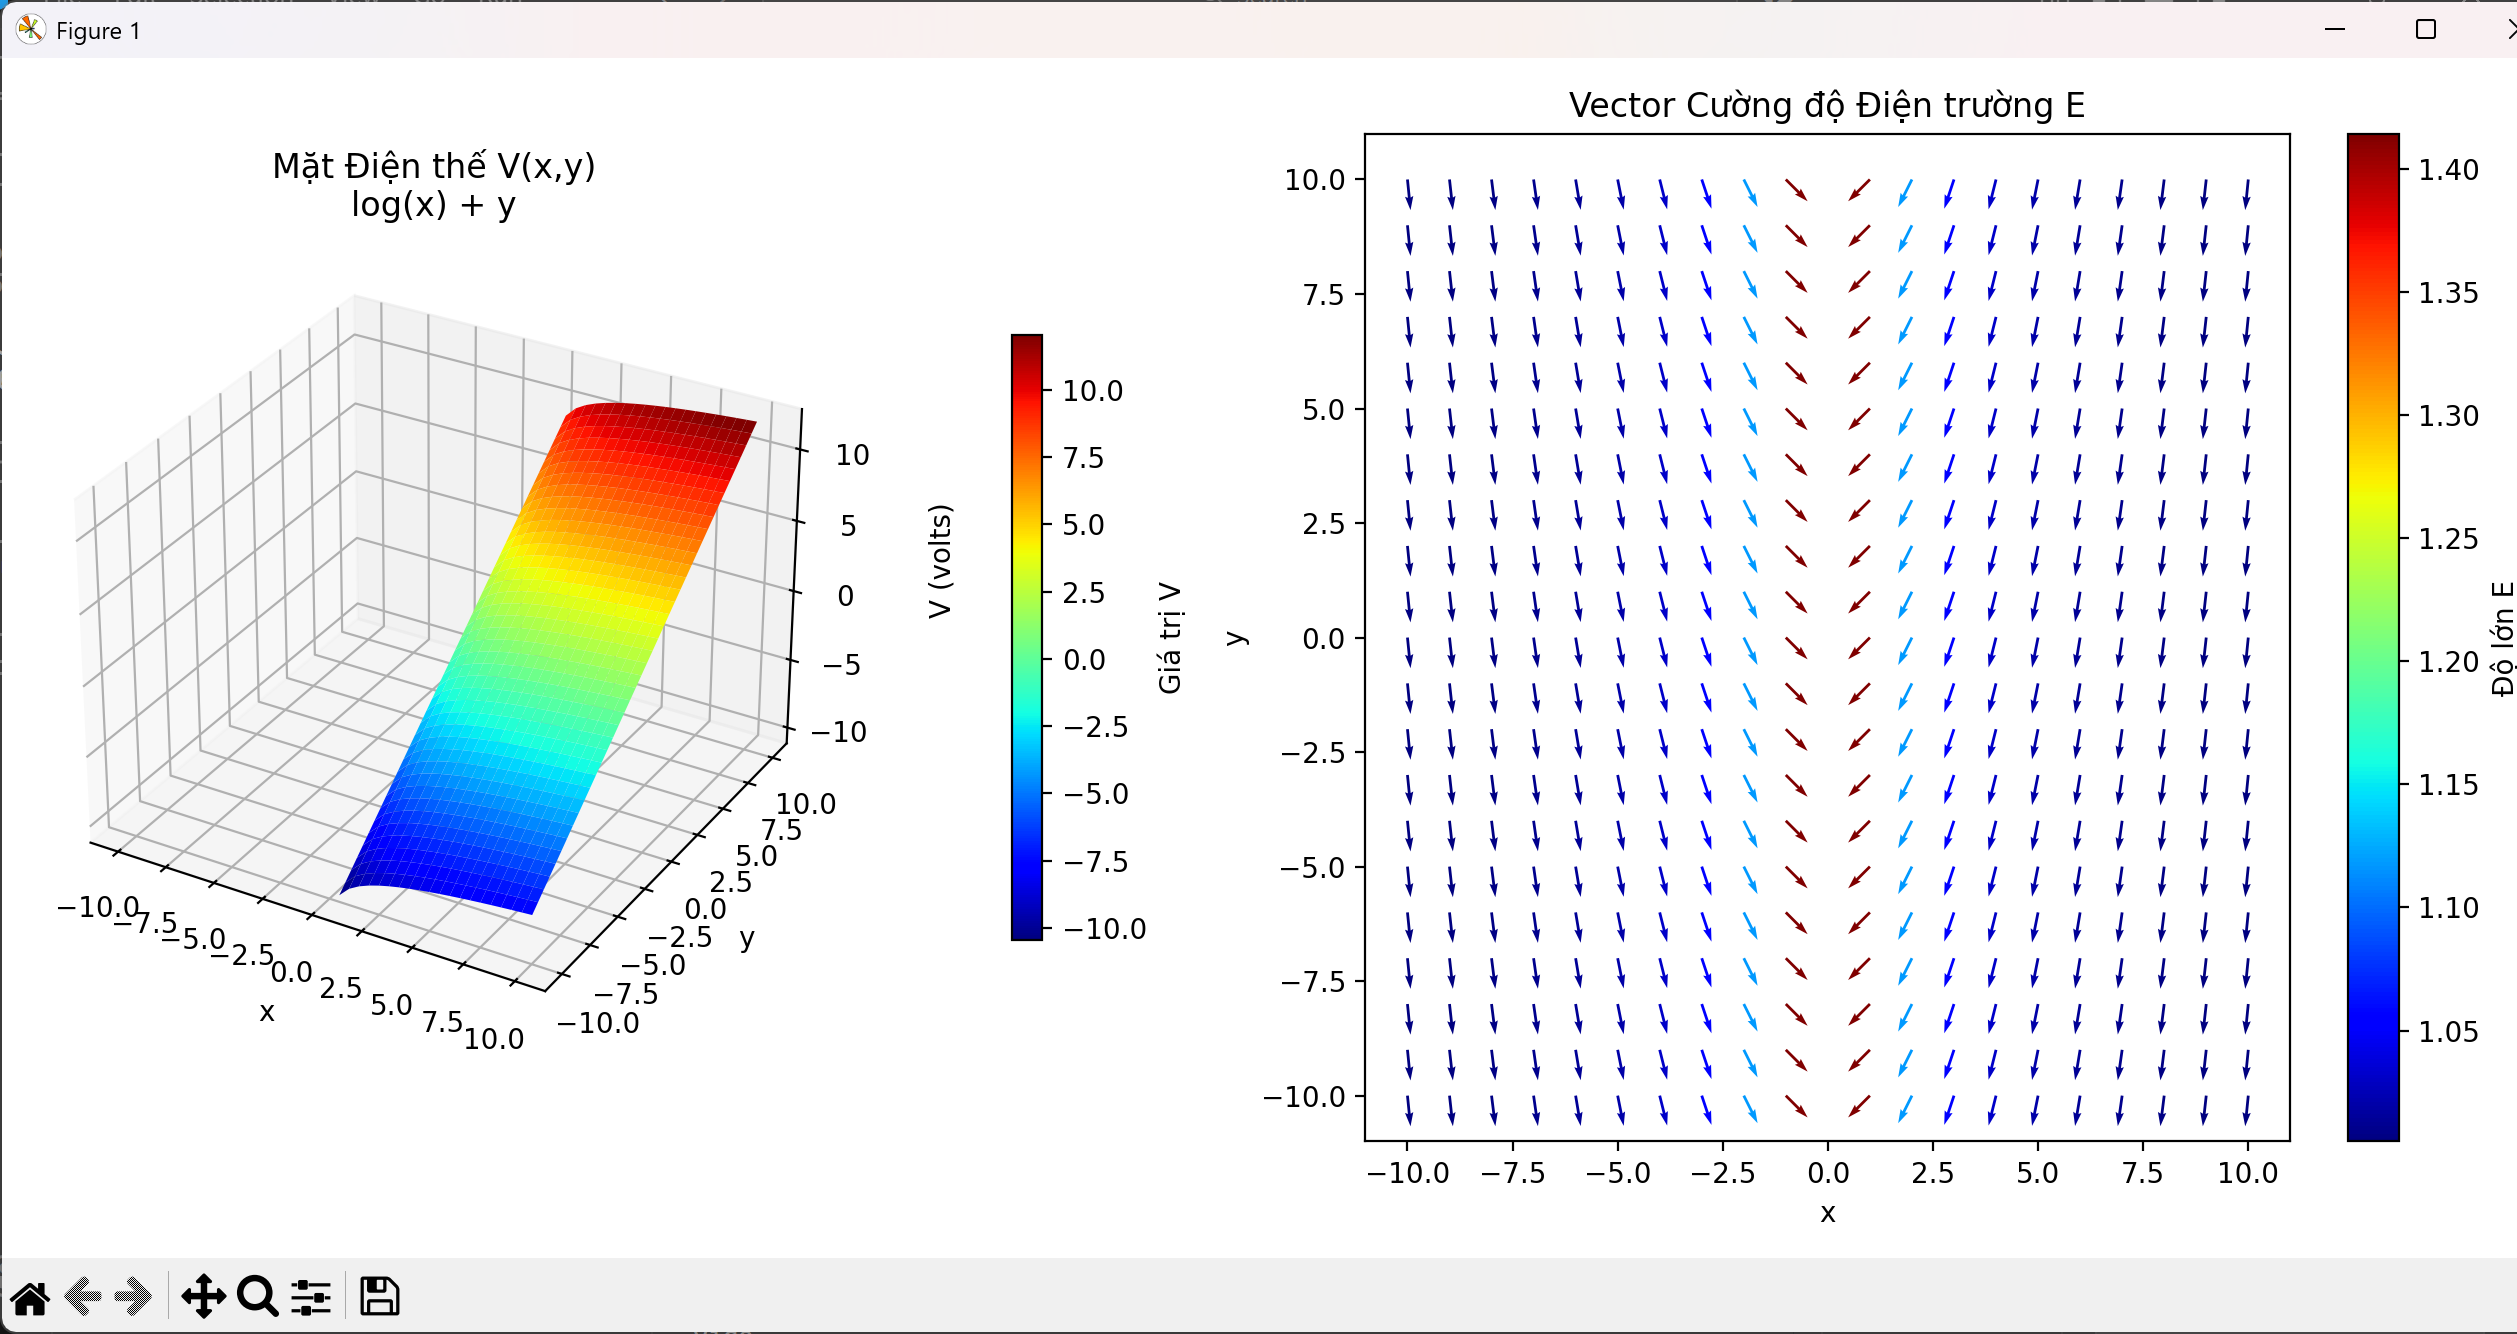
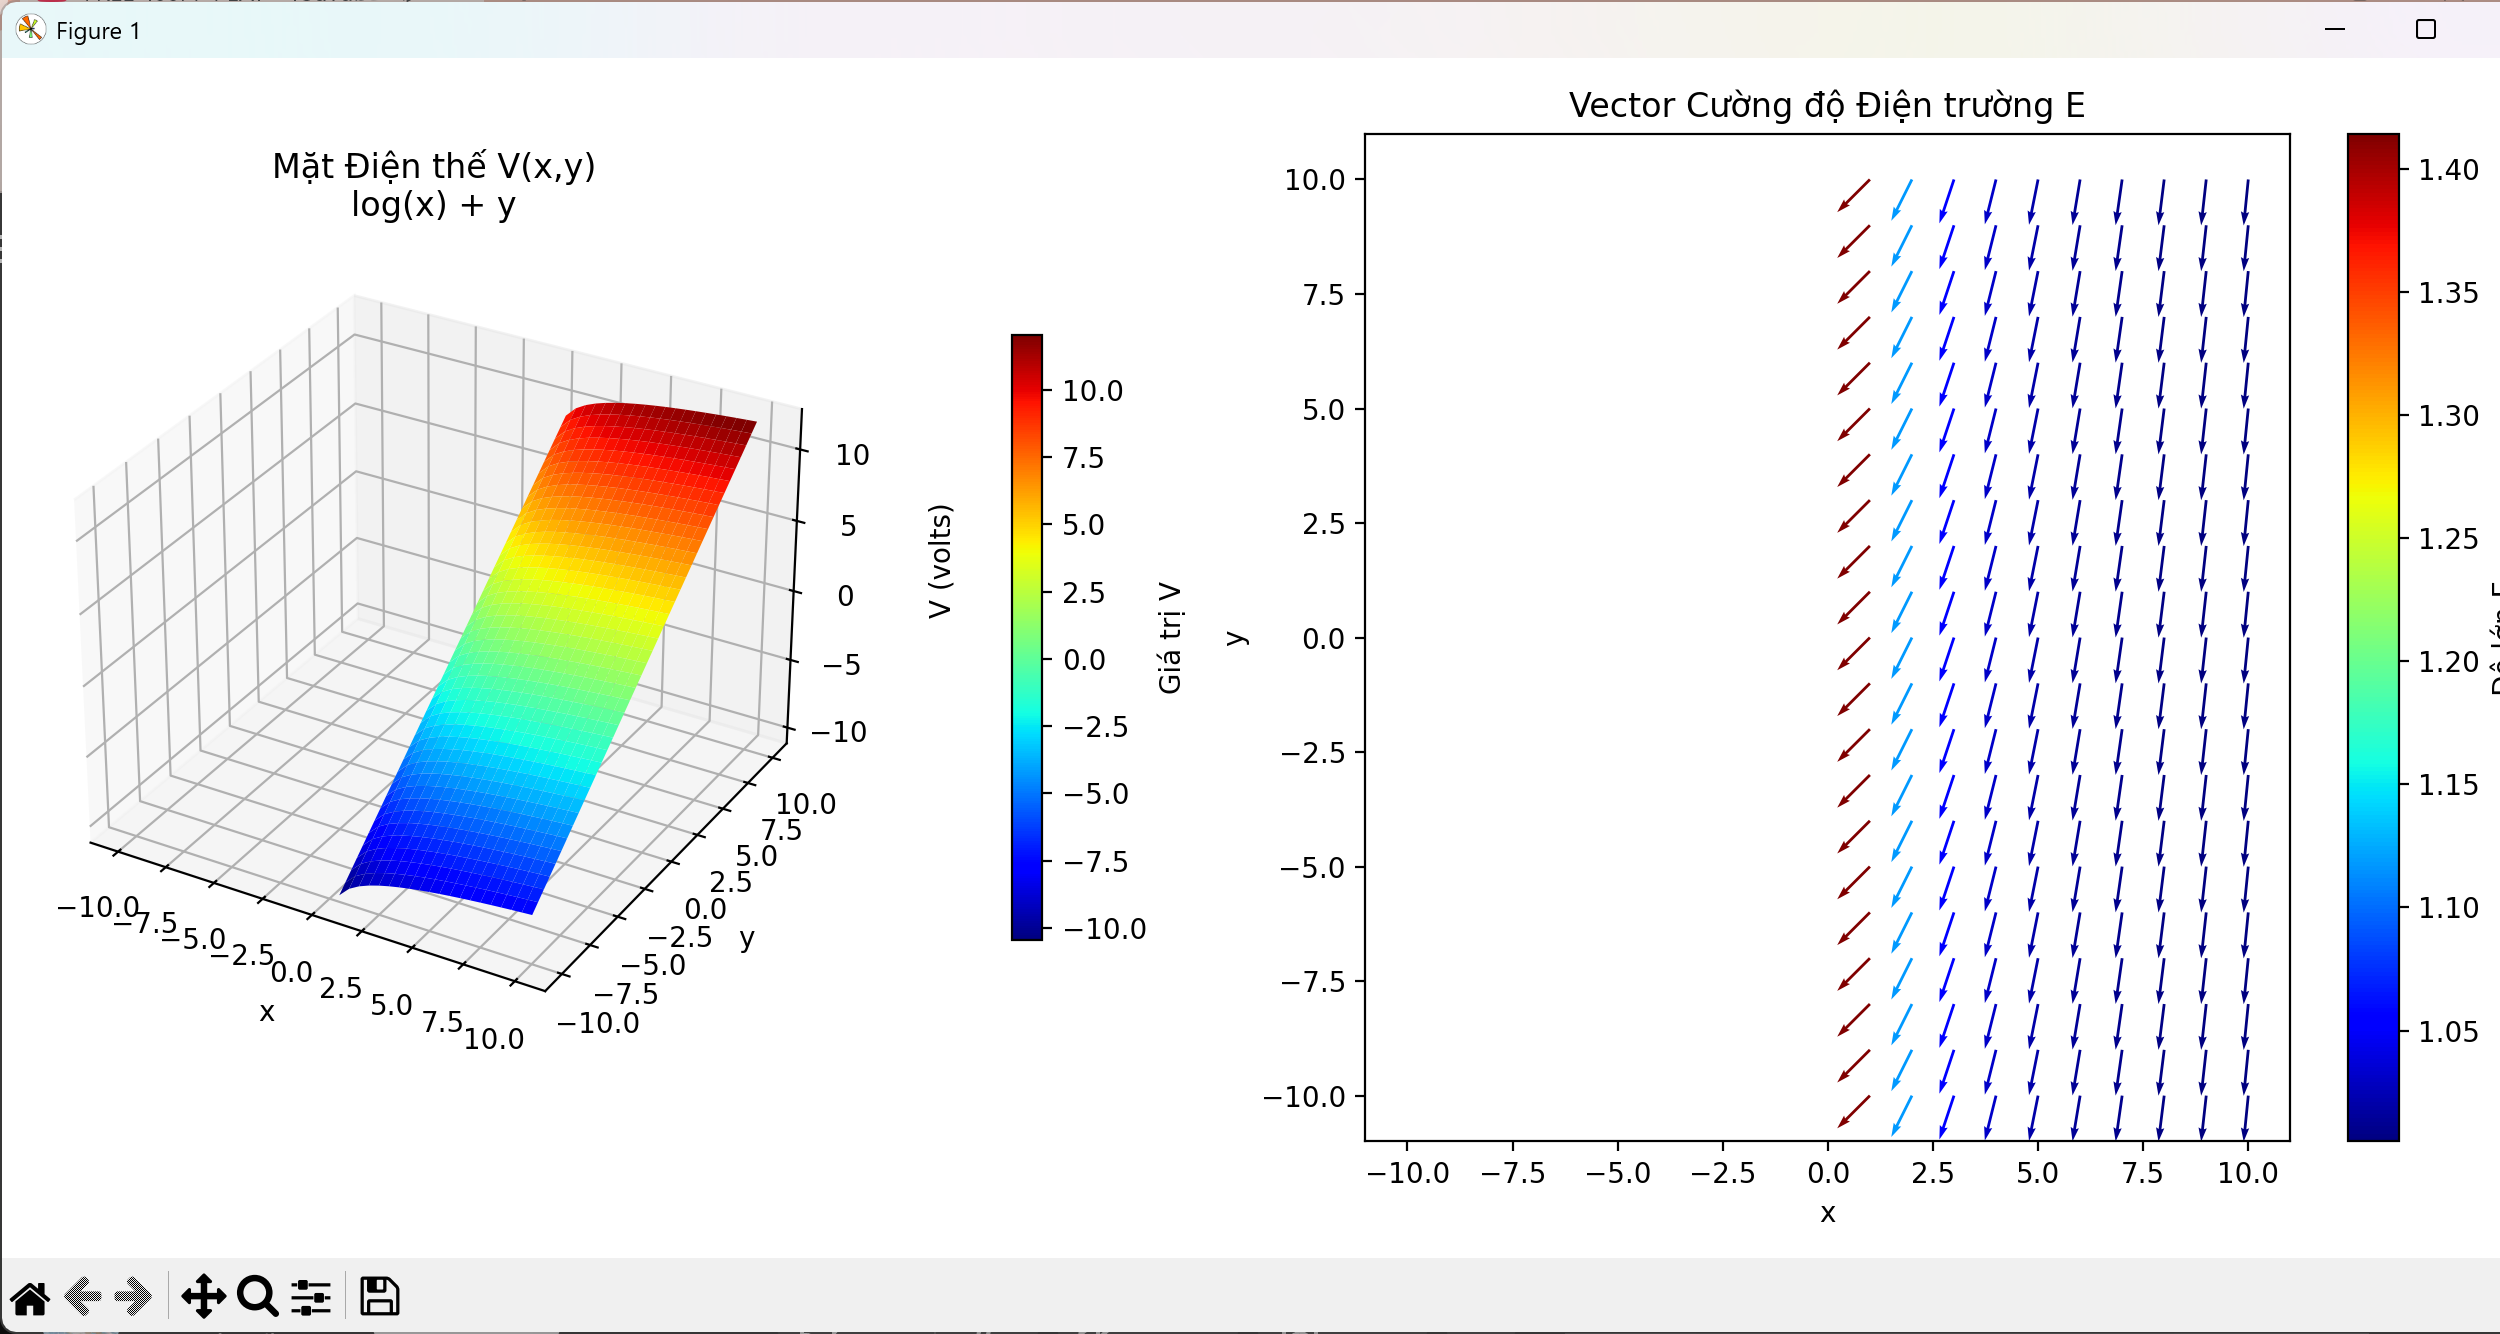
Change scale for arrows to appear larger

diff --git a/Physics 1/BTL.py b/Physics 1/BTL.py
@@ -84,7 +84,7 @@ cbar1.set_label("Giá trị V")
 #  Biểu diễn vector cường độ điện trường E
 ax2 = fig.add_subplot(1, 2, 2)
 q = ax2.quiver(X2, Y2, Ex_unit2, Ey_unit2, E_mag2, cmap='jet',
-               scale=30, width=0.003)
+               scale=20, width=0.003)
 
 ax2.set_title("Vector Cường độ Điện trường E", fontsize=12)
 ax2.set_xlabel("x")
